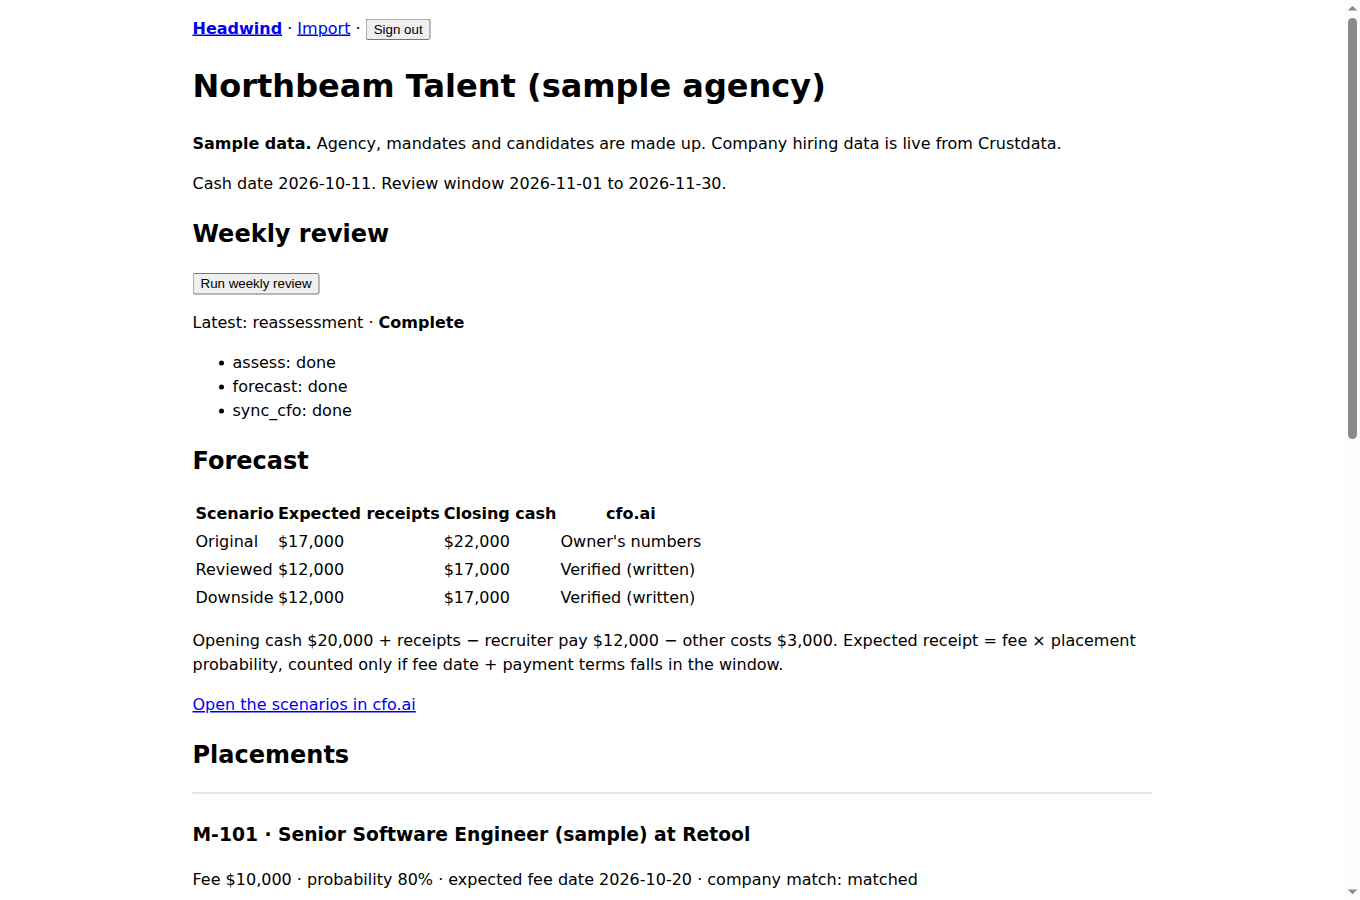
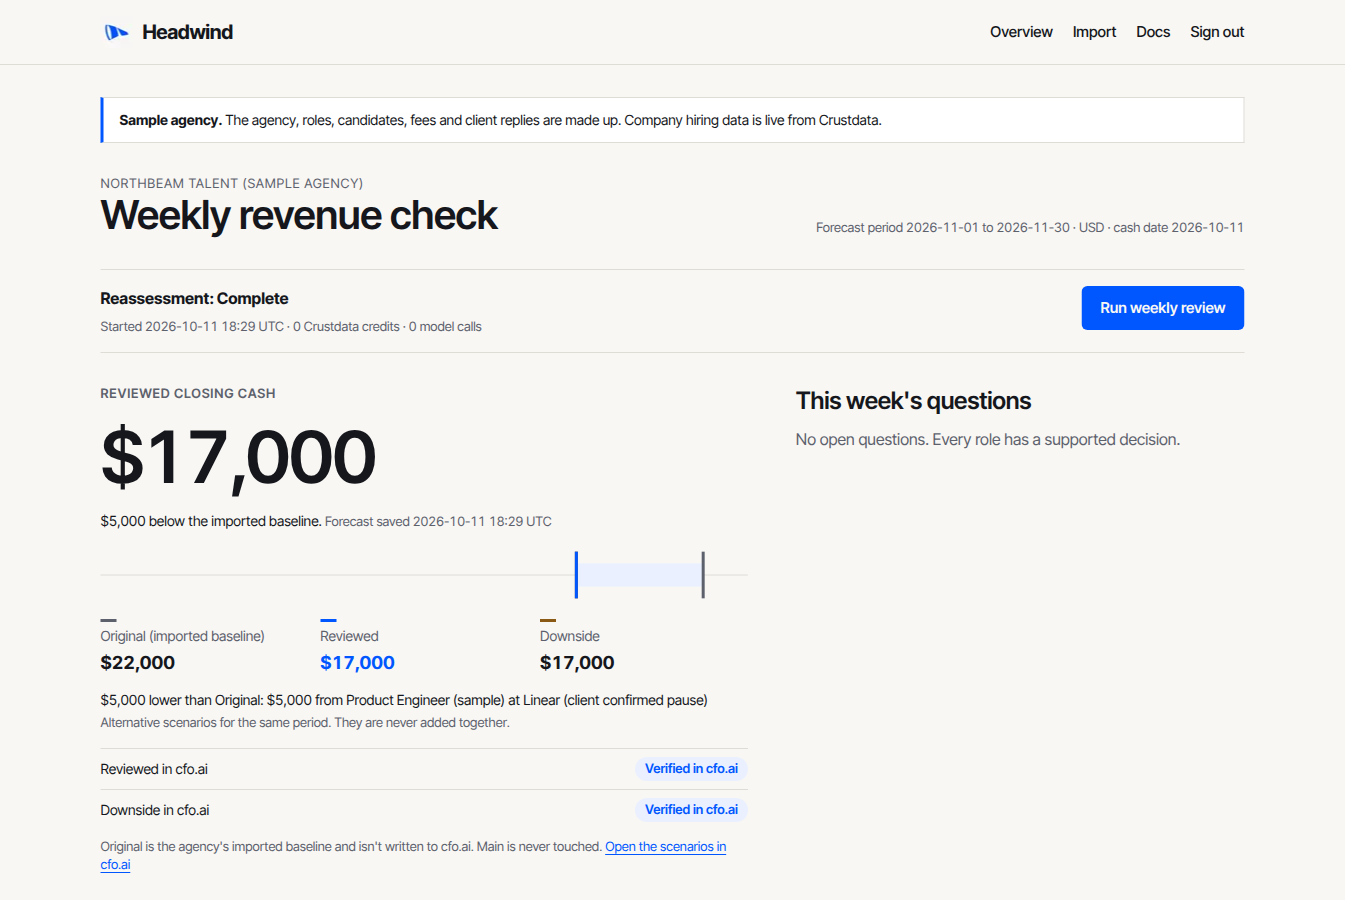
README: new Overview screenshot

diff --git a/README.md b/README.md
@@ -4,7 +4,7 @@
 
 Live app: https://headwind-app.vercel.app (public pages; the app needs sign-in, sample agency) · Video: not available yet · Evaluation: [eval/REPORT.md](eval/REPORT.md) · Submission: not linked yet
 
-![Headwind dashboard: weekly review status and the three forecasts](docs/images/dashboard.png)
+![Headwind Overview: Reviewed closing cash, the Original / Reviewed / Downside gap and the cfo.ai check](docs/images/dashboard.png)
 
 **Built with:** Crustdata · cfo.ai · neatlogs · Entire · LiteLLM (`nova-micro`) · Next.js · SQLite · AWS EC2
 
